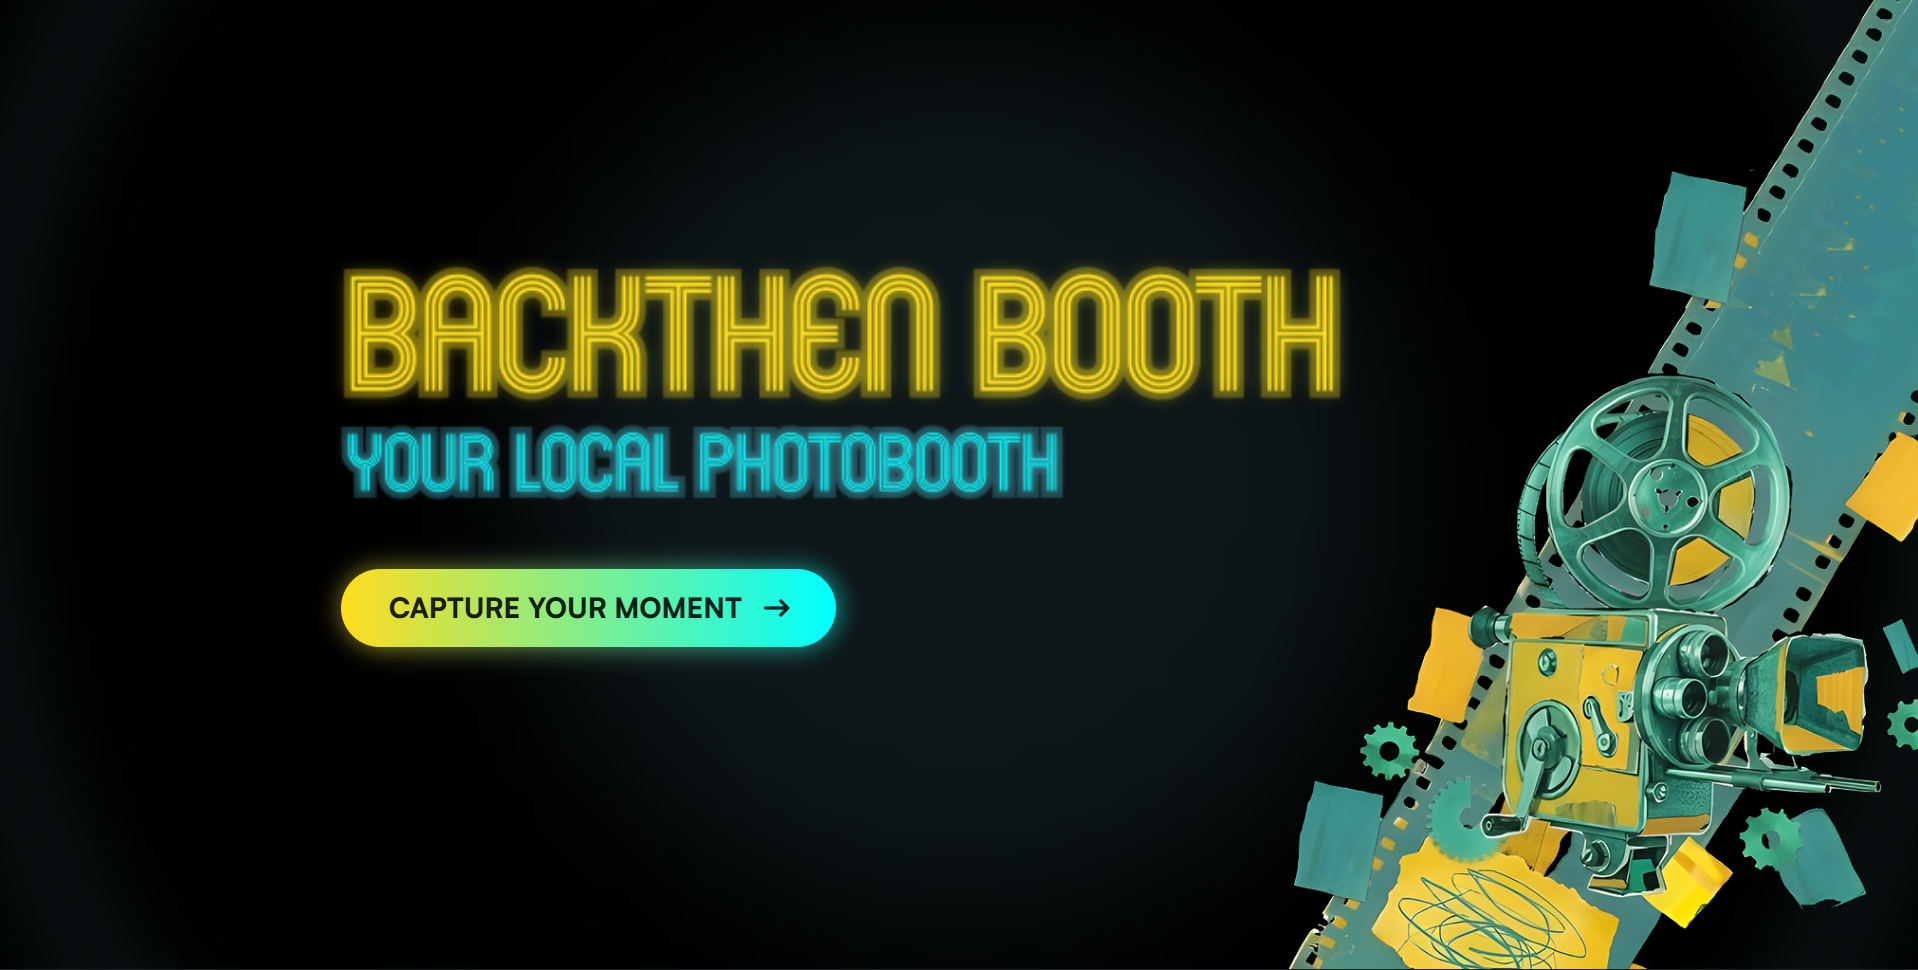
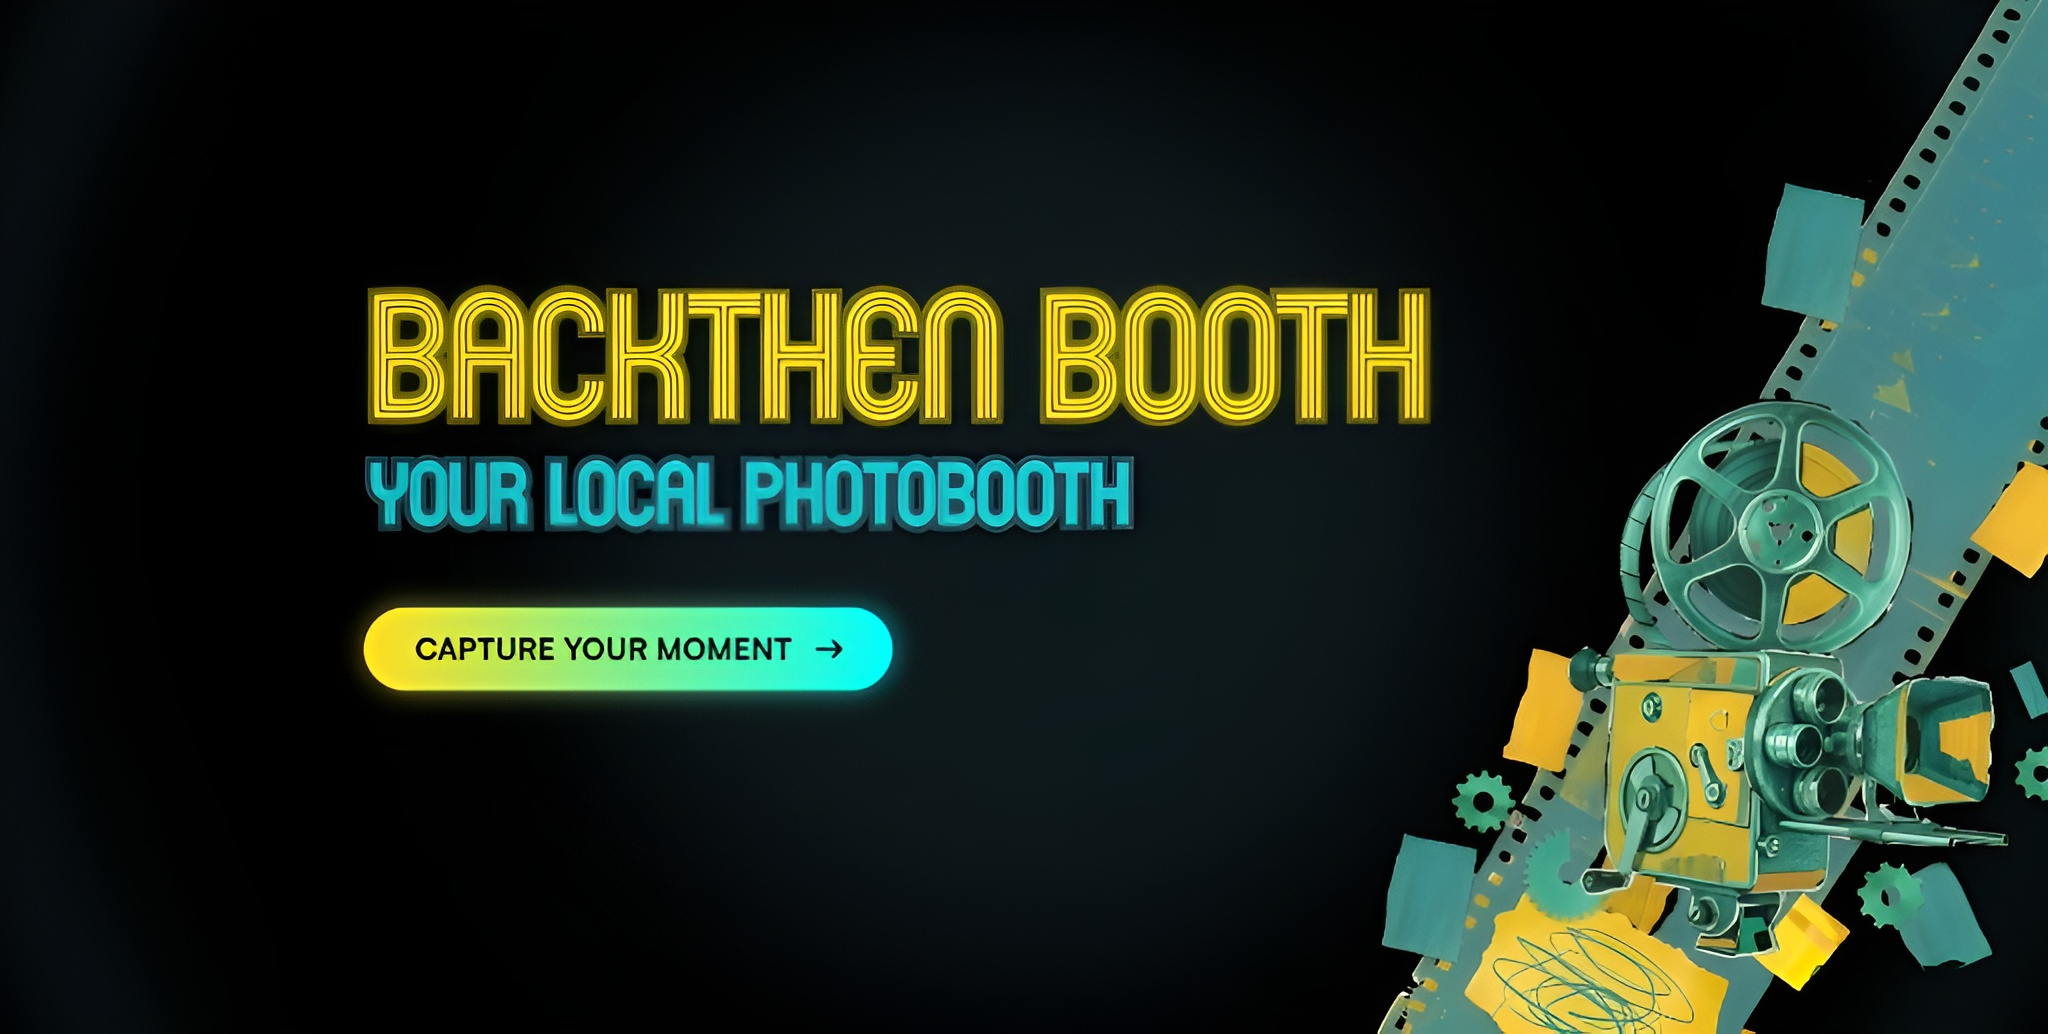
removed unused deps

diff --git a/src/main.tsx b/src/main.tsx
@@ -4,11 +4,11 @@ import './index.css'
 import App from './App.tsx'
 
 // dev
-// createRoot(document.getElementById('root')!).render(
-//   <StrictMode>
-//     <App />
-//   </StrictMode>,
-// )
+createRoot(document.getElementById('root')!).render(
+  <StrictMode>
+    <App />
+  </StrictMode>,
+)
 
 // local prod
-createRoot(document.getElementById("root")!).render(<App />)
+// createRoot(document.getElementById("root")!).render(<App />)

diff --git a/src/components/sections/Hero/index.tsx b/src/components/sections/Hero/index.tsx
@@ -217,7 +217,7 @@ export default function Hero() {
                 ctx.rect(uiX, uiY, uiWidth, uiHeight)
                 ctx.clip()
 
-                ctx.filter = `brightness(${brightnessAnim})`
+                ctx.filter = `brightness(${brightnessAnim}) sepia(0.3)`
 
                 ctx.globalCompositeOperation = "screen"
 
